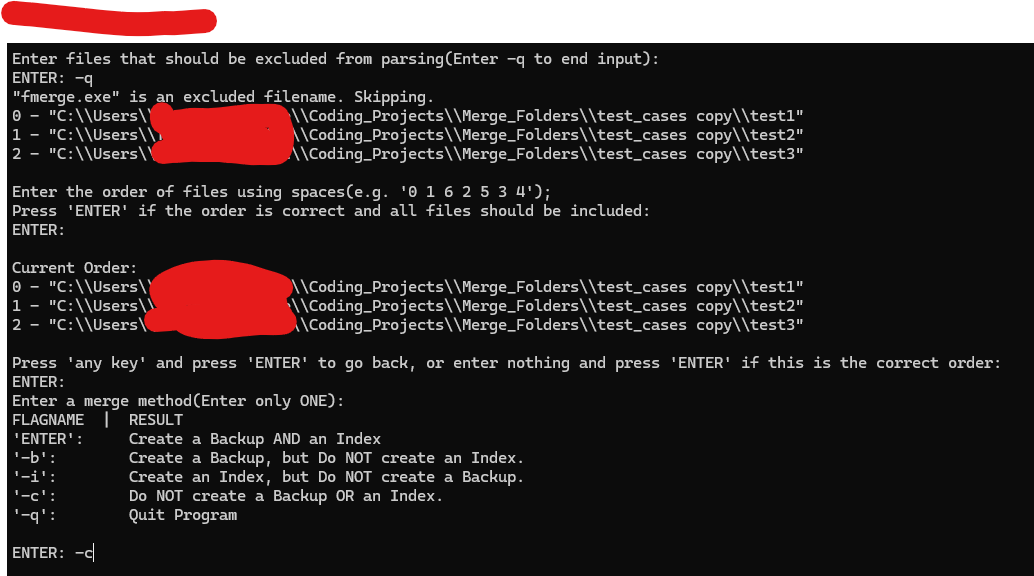
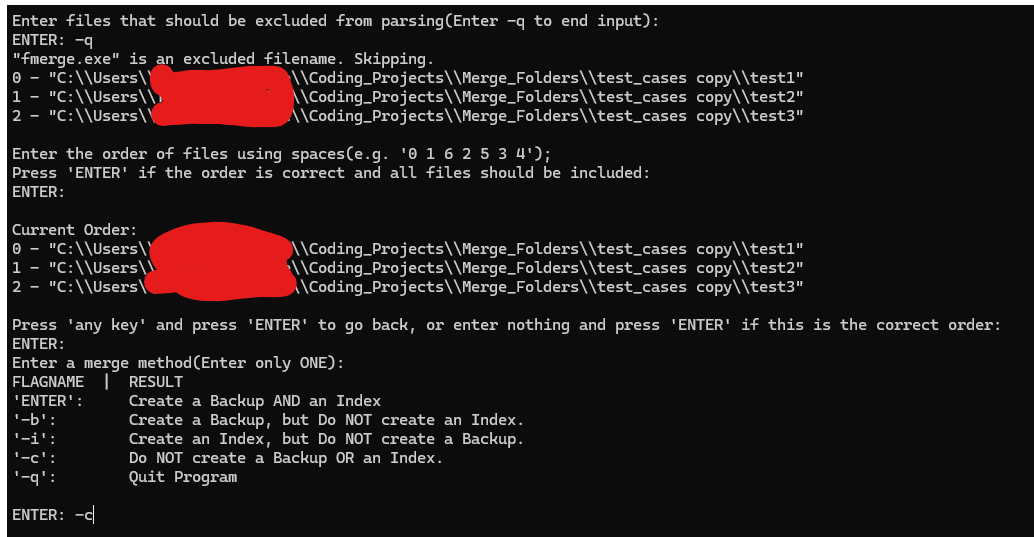
25-10-2024 update 5: update readme, .gitignore, and cropped an image

Changed region(s): [[0.0, 0.0, 1.0, 0.9236], [0.0309, 0.9236, 0.0928, 0.9832]]

diff --git a/README.md b/README.md
@@ -1,6 +1,6 @@
 # Folder Merger
 ## Overview
-Merges multiple folders into one folder containing numbered files. Useful for image slideshow downloads or other s
+Merges multiple folders into one folder containing numbered files. Useful for image slideshow downloads or combining a multitude of numbered textbook page folder into one folder.
 ## Features
 ### Basic Use
 ![BasicUse](example_images/overview.png)
@@ -19,8 +19,8 @@ Merges multiple folders into one folder containing numbered files. Useful for im
 ## How to Use
 txt file showing how to use included in release folder
 
-1. Place File in a directory
-2. Run the file
+1. Place 'fmerge.exe' in a directory
+2. Run 'fmerge.exe'
 3. Follow instructions...
 4. and voila! Your files are now merged in ascending order.
 
@@ -31,7 +31,7 @@ txt file showing how to use included in release folder
 
 **From source files**
 1. Clone project to machine
-2. Compile main.cpp with (must be c++17 or above)
+2. Compile main.cpp (must be c++17 or above)
 ```console
 g++ src/main.cpp src/folder_merger.cpp -o fmerge
 ```
@@ -45,8 +45,8 @@ cmake ../
 cd ..
 cmake --build build
 ```
-* Using GCC, exe file will be located in build/
-* Using MSVC, exe file will be located in build/Debug/
+* Using GCC: exe file will be located in build/
+* Using MSVC: exe file will be located in build/Debug/
 
 ### Running program
 1. Place fmerge.exe in a directory
